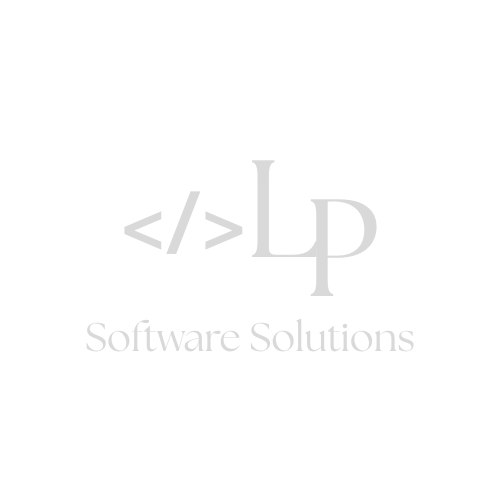
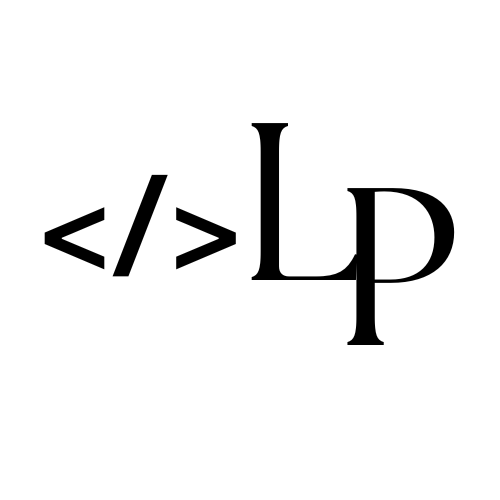
Add files via upload

diff --git a/index.html b/index.html
@@ -26,7 +26,7 @@
   <!-- Navigation -->
   <nav class="fixed w-full bg-gray-900 bg-opacity-50 backdrop-blur-md z-50 transition-transform duration-300" id="navbar">
     <div class="container mx-auto flex justify-between items-center p-4">
-      <a href="#hero" class="text-2xl font-bold hover:text-teal-400">Luca Pianzola</a>
+      <a href="#hero" class="text-2xl font-bold hover:text-teal-400"><img src="lp_icon.png" alt="lp" width="100" height="70">Luca Pianzola</a>
       <ul class="flex space-x-8 font-medium">
         <li><a href="#about" class="hover:text-teal-400">About</a></li>
         <li><a href="#experience" class="hover:text-teal-400">Experience</a></li>
